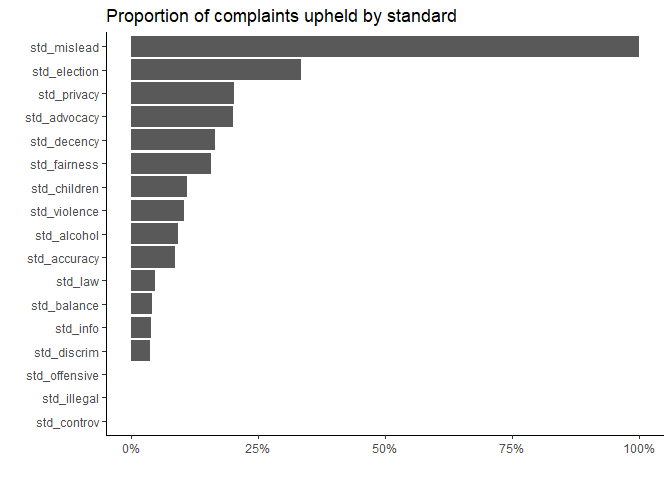
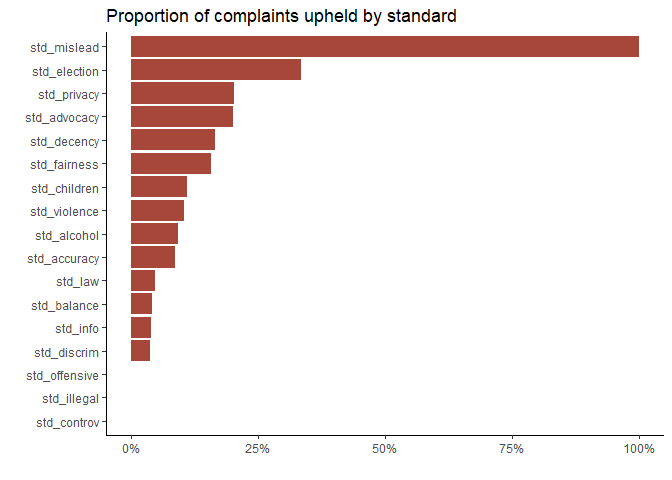
Deleted plot, made upheld over time, changed plot colours

Changed region(s): [[0.1875, 0.0625, 0.9688, 0.75]]

diff --git a/bsa.md b/bsa.md
@@ -12,6 +12,7 @@ library(tidyr)
 library(ggplot2)
 library(scales)
 library(forcats)
+library(Manu)
 ```
 
 Read in two datasets: the first is for complaints made under the
@@ -64,7 +65,7 @@ bsa_full$upheld <- coalesce(bsa_full$elect_upheld, bsa_full$fta_upheld, bsa_full
 bsa_full <- select(bsa_full, -c(11:22))
 ```
 
-Fix factors.WIP.
+Fix factors.
 
 ``` r
 # Recode 'broadcaster' "Newstalk ZB" as the actual Broadcaster
@@ -246,60 +247,22 @@ bsa_full <- bsa_full |>
 bsa_full[65,17] <- "not_upheld"
 ```
 
-Summaries.
+Plots
 
 ``` r
-# Frequency of majority by determination
-
-bsa_full |> 
-  group_by(determination, majority) |> 
-  summarise(n = n()) |> 
-  mutate(freq = n / sum(n))
-```
-
-    `summarise()` has grouped output by 'determination'. You can override using the
-    `.groups` argument.
-
-    # A tibble: 7 × 4
-    # Groups:   determination [4]
-      determination             majority     n   freq
-      <chr>                     <chr>    <int>  <dbl>
-    1 Declined to Determine 11a No          25 0.926 
-    2 Declined to Determine 11a Yes          2 0.0741
-    3 Declined to Determine 11b No          43 1     
-    4 Not Upheld                No         767 0.938 
-    5 Not Upheld                Yes         51 0.0623
-    6 Upheld                    No         128 0.962 
-    7 Upheld                    Yes          5 0.0376
-
-``` r
-# Proportion of determination by year
-
-year_det <- bsa_full |> 
-  filter(determination %in% c("Not Upheld", "Upheld")) |> 
-  group_by(complaint_year, determination) |> 
-  summarise(n = n()) |>
-  mutate(freq = n / sum(n)) |> 
-  filter(determination == "Upheld")
-```
-
-    `summarise()` has grouped output by 'complaint_year'. You can override using
-    the `.groups` argument.
-
-``` r
-ggplot(year_det, aes(complaint_year, freq, group = determination)) +
-  geom_line() +
+ggplot(bsa_full, aes(x = complaint_year, fill = determination)) +
+  geom_bar(position = "fill", colour = "black") +
   theme_classic() +
-  labs(title = "Proportion of 'upheld' complaints over time") +
-  xlab("Year") +
+  scale_fill_manual(values = get_pal("Kaka")) +
+  labs(title = "Determination of BSA complaints over time") +
+  xlab("") +
   ylab("") +
   scale_y_continuous(labels = scales::percent)
 ```
 
-![](figs/upheld-over-time-1.png)
+![](figs/determination-over-time-1.png)
 
 ``` r
-# Count upheld vs not_upheld standards
 summary2 <- bsa_full |>
   select(13:29) |>
   pivot_longer(cols = everything()) |> 
@@ -312,14 +275,19 @@ summary2 <- bsa_full |>
     upheld_pc = sum(upheld, na.rm = TRUE) / total,
   ) 
 
-ggplot(summary2, aes(x = fct_reorder(name, upheld_pc), y = upheld_pc)) +
+ggplot(summary2, aes(x = fct_reorder(name, upheld_pc), y = upheld_pc, fill = factor(upheld_pc))) +
   geom_col() +
   coord_flip() +
   theme_classic() +
+  scale_fill_manual(values = rep("#A7473A", 15)) +
   scale_y_continuous(labels = scales::percent) +
   xlab("") +
   ylab("") +
-  labs(title = "Proportion of complaints upheld by standard")
+  labs(title = "Proportion of complaints upheld by standard") +
+  guides(fill=FALSE)
 ```
+
+    Warning: The `<scale>` argument of `guides()` cannot be `FALSE`. Use "none" instead as
+    of ggplot2 3.3.4.
 
 ![](figs/upheld-by-standard-1.png)
